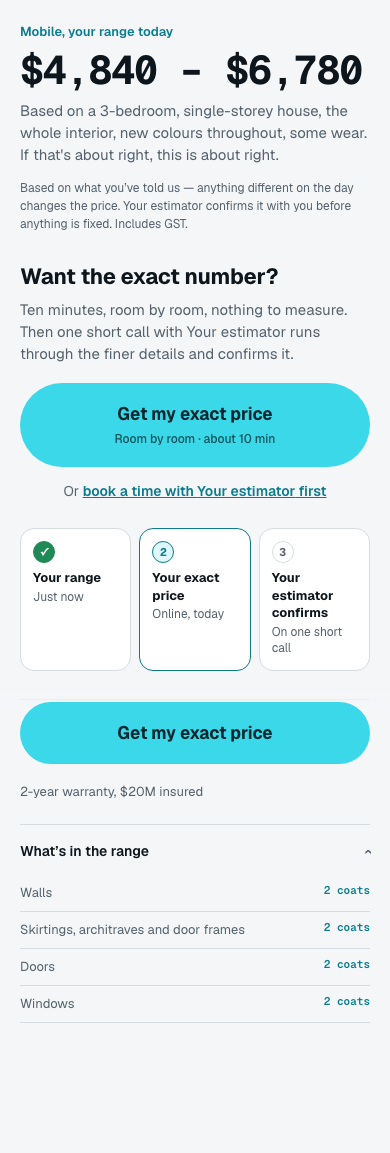
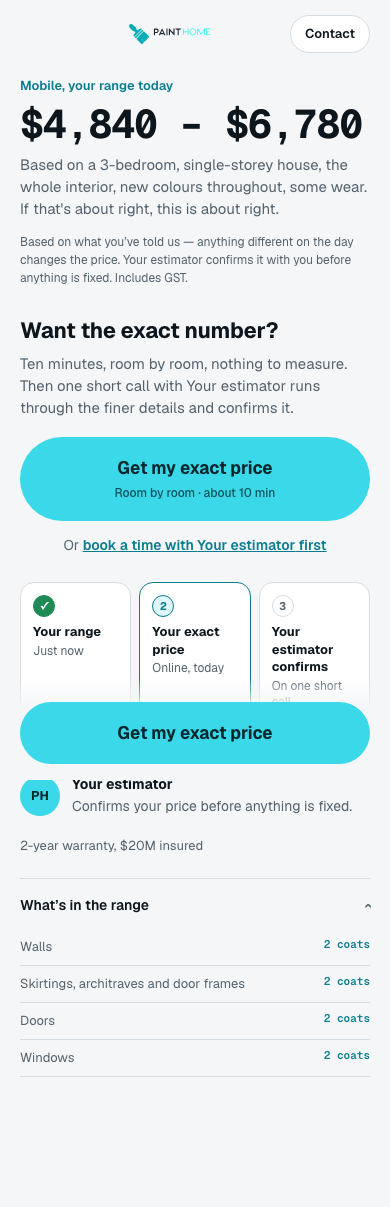
Wizard mobile v5 S5: Book a visit on both shopfronts (brief §5), the pre-range door a visit request, the gate's door the booking page; the specs' phone, cache and host assumptions

Changed region(s): [[0.0308, 0.0, 0.9538, 0.9055], [0.8308, 0.7493, 0.9538, 0.9055]]

diff --git a/e2e/customer-journey/wizard-mobile-v5-contact.spec.ts b/e2e/customer-journey/wizard-mobile-v5-contact.spec.ts
@@ -67,12 +67,14 @@ test.describe("Wizard mobile v5 — Contact and early booking (session 5)", () =
     const sheet = page.getByTestId("wzm-contact-sheet");
     await expect(sheet).toBeVisible();
     await expect(sheet.getByTestId("wzm-contact-who")).toBeVisible();
-    await expect(sheet.getByTestId("wzm-contact-book")).toContainText("Book a call"); // Paint Home: phone-close
-    await expect(sheet.getByTestId("wzm-contact-call")).toHaveAttribute("href", /^tel:/);
+    await expect(sheet.getByTestId("wzm-contact-book")).toContainText("Book a visit");
+    // Call dials the shopfront's number; the test stack may hold none for Paint Home, and then the row is absent rather than a dead link
+    const call = sheet.getByTestId("wzm-contact-call");
+    if (await call.count()) await expect(call).toHaveAttribute("href", /^tel:/);
     await expect(sheet.getByTestId("wzm-contact-message")).toContainText("Send a message");
     await expect(sheet.getByTestId("wzm-contact-save")).toContainText("Save and come back later");
     // the rows in the prototype's order
-    const order = await sheet.evaluate((el) => ["wzm-contact-who", "wzm-contact-book", "wzm-contact-call", "wzm-contact-message", "wzm-contact-save"].map((t) => el.querySelector(`[data-testid='${t}']`)?.getBoundingClientRect().top ?? -1));
+    const order = await sheet.evaluate((el) => ["wzm-contact-who", "wzm-contact-book", "wzm-contact-call", "wzm-contact-message", "wzm-contact-save"].map((t) => el.querySelector(`[data-testid='${t}']`)?.getBoundingClientRect().top ?? null).filter((t): t is number => t != null));
     for (let i = 1; i < order.length; i++) expect(order[i]).toBeGreaterThan(order[i - 1]);
     // Send a message → the talk sheet in message mode; the Contact sheet closes
     await sheet.getByTestId("wzm-contact-message").tap();
@@ -153,16 +155,16 @@ test.describe("Wizard mobile v5 — Contact and early booking (session 5)", () =
     await gate.getByTestId("wzm-contact").tap();
     const sheet = page.getByTestId("wzm-contact-sheet");
     await expect(sheet).toBeVisible();
-    await expect(sheet.getByTestId("wzm-contact-book")).toContainText("Book a call");
+    await expect(sheet.getByTestId("wzm-contact-book")).toContainText("Book a visit");
     await sheet.getByTestId("wzm-contact-x").tap();
     if (await page.getByTestId("gate-visit").count()) {
       await page.getByTestId("gate-visit").tap();
-      await expect(page.getByTestId("talk-sheet")).toBeVisible();
-      await expect(page.getByTestId("talk-sheet")).toHaveAttribute("aria-label", "Speak with us");
+      await expect(page).toHaveURL(/\/estimate\/visit\?id=/, { timeout: 20_000 });
+      expect(new URL(page.url()).host).toMatch(/^painthome\.localhost/);
     }
   });
 
-  test("4 · on Paint Group the door is Book a visit; on the gate it is the booking page with the zone's days", async ({ page, baseURL }) => {
+  test("4 · on Paint Group too the door is Book a visit; on the gate it is the booking page with the zone's days", async ({ page, baseURL }) => {
     test.setTimeout(180_000);
     await open(page, baseURL!);
     await page.getByTestId("ql-jobtype-interior").tap();

diff --git a/app/wizard/WizardApp.tsx b/app/wizard/WizardApp.tsx
@@ -1907,8 +1907,8 @@ export default function WizardApp({ roomTypes, substrates, mode = "internal", pr
           estimatorName={reveal.payload.estimator?.name ?? estimatorName}
           suburb={state.address?.suburb || state.customer?.suburb || null}
           phone={companyPhone}
-          // on the gate: the booking page's real slots on Paint Group; the call request on Paint Home (phone-close)
-          onBook={() => { void recordRangeOption(reveal.estimateId, brand === "painthome" ? "speak" : "visit"); if (brand === "painthome") { setTalk({ mode: "call" }); return; } clearResume(); router.push(`/estimate/visit?id=${reveal.estimateId}`); }}
+          // on the gate: the booking page — the zone's pre-set days, the hold, the texted code (brief §5.2; both shopfronts)
+          onBook={() => { void recordRangeOption(reveal.estimateId, "visit"); clearResume(); router.push(`/estimate/visit?id=${reveal.estimateId}`); }}
           onMessage={() => { void recordRangeOption(reveal.estimateId, "message"); setTalk({ mode: "message" }); }}
           onSave={() => setBookOpen(true)}
         />
@@ -1944,8 +1944,8 @@ export default function WizardApp({ roomTypes, substrates, mode = "internal", pr
               if (!contactKnown) { setTalk({ mode: "details", then: go }); return; }
               go();
             }}
-            // Session 5 opens the Contact sheet at the slots; until then the talk sheet (a call on Paint Home, a visit request on Paint Group).
-            onVisit={() => { void recordRangeOption(reveal.estimateId, brand === "painthome" ? "speak" : "visit"); setTalk({ mode: brand === "painthome" ? "call" : "visit" }); }}
+            // Session 5: "book a time first" is the booking page (brief §4 / §5.2 — the zone's days), both shopfronts.
+            onVisit={() => { void recordRangeOption(reveal.estimateId, "visit"); clearResume(); router.push(`/estimate/visit?id=${reveal.estimateId}`); }}
             onBook={() => { void recordRangeOption(reveal.estimateId, "visit"); clearResume(); router.push(`/estimate/visit?id=${reveal.estimateId}`); }}
           />
         ) : walking && outside.v2 && !sent ? (
@@ -2210,8 +2210,8 @@ export default function WizardApp({ roomTypes, substrates, mode = "internal", pr
           estimatorName={estimatorName}
           suburb={state.address?.suburb || state.customer?.suburb || null}
           phone={companyPhone}
-          // before the range a visit is a REQUEST, never a slot (R3): the talk sheet's visit mode (a call on Paint Home)
-          onBook={() => setTalk({ mode: brand === "painthome" ? "call" : "visit" })}
+          // before the range a visit is a REQUEST, never a slot (R3): the talk sheet's visit mode (a call request needs a range — R25)
+          onBook={() => setTalk({ mode: "visit" })}
           onMessage={() => setTalk({ mode: "message" })}
           onSave={openBook}
         />

diff --git a/app/wizard/MobileContact.tsx b/app/wizard/MobileContact.tsx
@@ -54,9 +54,10 @@ export default function MobileContact({ open, onClose, brand, estimatorName, sub
           <span className="wzm-av" aria-hidden="true">{name ? initialsOf(name) : painthome ? "PH" : "PG"}</span>
           <div><b>{name ?? "Your estimator"}</b><small>{name ? where : "One of our estimators looks after your area"}</small></div>
         </div>
+        {/* Brief §5 (27 Oct, approved): Book a visit on both shopfronts — it supersedes the Paint Home phone-close door set for this one door. */}
         <button type="button" className="wzm-cta wzm-cta--teal wzm-contact-book" onClick={go(onBook)} data-testid="wzm-contact-book">
-          {painthome ? "Book a call" : "Book a visit"}
-          <small>{painthome ? `${first ?? "Your estimator"} calls to confirm your price. One short call.` : `${first ?? "Your estimator"} comes to you. About 40 minutes, no charge.`}</small>
+          Book a visit
+          <small>{first ?? "Your estimator"} comes to you. About 40 minutes, no charge.</small>
         </button>
         {phone && (
           <a className="wzm-srow" href={`tel:${phone.replace(/\s+/g, "")}`} data-testid="wzm-contact-call">Call {phone}<small>Mon–Fri, 8–6</small></a>

diff --git a/e2e/marketing/painthome-wizard.spec.ts b/e2e/marketing/painthome-wizard.spec.ts
@@ -117,12 +117,10 @@ test.describe("Paint Home — the wizard brand branch (session 3)", () => {
     // wizard mobile v5 R10: nothing on the page names Paint Group except the powered-by line
     const without = await page.evaluate(() => { const p = document.querySelector("[data-testid='gate-powered']"); const t = document.body.innerText; return p ? t.replace(p.textContent ?? "", "") : t; });
     expect(without).not.toContain("Paint Group");
-    // "book a time first" opens the talk sheet in call mode (session 5 brings the Contact sheet)
+    // S5: "book a time first" is the booking page, on the Paint Home host
     await page.getByTestId("gate-visit").tap();
-    const sheet = page.getByTestId("talk-sheet");
-    await expect(sheet).toBeVisible();
-    await expect(sheet).toContainText("call");
-    await page.keyboard.press("Escape");
+    await expect(page).toHaveURL(/\/estimate\/visit\?id=/, { timeout: 20_000 });
+    expect(new URL(page.url()).host).toMatch(/^painthome\.localhost/);
 
     // the brand is on the session, the estimate — and the autosave caught up
     await expect.poll(async () => {

diff --git a/e2e/customer-journey/wizard-mobile-v5-gate.spec.ts b/e2e/customer-journey/wizard-mobile-v5-gate.spec.ts
@@ -43,6 +43,8 @@ test.describe("Wizard mobile v5 — the gate on a phone (session 4)", () => {
     if (policyBefore !== undefined) {
       if (policyBefore === null) await db.from("settings").delete().eq("key", "wizard_policy");
       else await db.from("settings").upsert({ key: "wizard_policy", value: policyBefore }, { onConflict: "key" });
+      // the server's pricing context caches settings for 20s: the next spec must not submit against the lowered cap
+      await new Promise((r) => setTimeout(r, 21_000));
     }
   });
 

diff --git a/docs/briefs/estimator-v2-progress.md b/docs/briefs/estimator-v2-progress.md
@@ -70,6 +70,7 @@
 | M5 · S2 | Mobile shell and screens (brief §2; plan Session 2) | BUILT | 28 Oct 2026 | branch `feat/wizard-mobile-v5-s2` (cut from `feat/wizard-mobile-v5`; PR for Tom) | none | — | 4158 → 4173 | ⚑ NEW D15: the details button — the brief enables Show my range on name + 10-digit mobile, but the server's gate (`/api/wizard/submit` `gate_required`) still demands an email, so the phone asks for all three until Tom changes that rule (a server + policy change, not S2's) | **The shell.** Under 768px (`WizardApp useMobile` — the `(max-width: 767px)` query through `useSyncExternalStore`, desktop until hydration) a customer's quick look is `app/wizard/MobileQuickLook.tsx`: back chevron · logo · **Contact** pill (opens the talk sheet — a call on Paint Home, a site visit on Paint Group — and writes `contact_opened {step: <screen>}`; the Contact sheet is S5), the 3px bar (`mobileProgress`: index / question screens × 55, the gate at 55), the live strip's PLACE (`.wzm-strip`, a static placeholder — S3 draws the thumbnail, the ribbon and the sheet in it), one question per screen, single choices advancing themselves 250ms after the tap (D10 default), a bottom bar (`.wzm-foot`, safe-area padded) only on surfaces, rooms, details and on a step the phone does not split. **The screens are data:** `lib/wizard/mobileScreens.ts mobileScreensFor(steps, quick)` lays what · property · beds · storeys · job · surfaces · rooms · colours · condition · living · details over `stepsFor()`, which stays the order of record — `page`, `quickNext` (validation, autosave tag, submit) and `quickBack` are untouched; the shell keeps which screen of the step is showing (state + `localStorage pg-wizard-mobile-screen-v1`, so a reload and Welcome back land on the same screen). Skip rules: storeys for a unit; an outside job is place → the exterior brief's screens AS THEY ARE (§2.4: home · paint · about · sides, through `QuickLook shell="mobile"` — no nav, no talk card, no Your job so far; the drawn house stays above the question, static, because it is the paint step's control until S3's strip takes over). Brief §2's Outside beds/storeys/surfaces screens are therefore NOT built — the exterior brief governs. **Answers (§2.6, data model unchanged):** `applyJobChoice` pre-ticks the surfaces (Doors, windows and trims = skirtings, doors, windows; the architraves chip offered unticked; Some rooms = the first two starter rooms), surface chips write `excluded` (+ `changing` via `changingForScope`), the three colour answers read/write the colour tiles (`colourChoiceOf` / `applyColourChoice`; bold is never asked on a phone), the rooms screen lists the STARTER names (so the submit finds them — "Landing & stairs", not the brief's "Stairwell, Upstairs hall") with Study / Ensuite / Garage as added rooms and the desktop's add-room control as "+ Another room". `wizard_step_viewed {step: <screen>, breakpoint: mobile}` per screen (WizardApp's per-step emitter stands down on a phone). **Gone on a phone:** the sticky picture panel and the floating pill (interior path); desktop renders none of this. **Specs:** `e2e/customer-journey/wizard-mobile-v5.spec.ts` (390 × 780, anonymous, painthome.localhost — §9 items 1–3, the Unit and Outside skip rules, Back, reload, the events, a range from the phone's screens); the e2e drive (`quickNext` / `driveNoPlanWizard`) walks the phone's screens when the shell is up (`onMobileShell`, `driveMobileQuickLook`); the four phone-width specs v5 supersedes were rewritten (wizard-phone-pictures now runs at 800px, the band's remaining home; exterior-v2-home's phone test; ui-refresh-steps' 390 and iPhone tests; address-handoff; painthome-wizard). `e2e/_look-wizard-desktop.spec.ts` (env `WIZARD_DESKTOP_SHOTS`) is the 1470px scope-guard screenshot tool. e2e on C1 (28 Oct): wizard-mobile-v5 4/4, exterior-v2-home 8/8, wizard-phone-pictures 1/1, address-handoff 3/3, ui-refresh-steps 44/44, r5-editor 4/5 (the range-width test is red at DESKTOP width, 17 → 17 → 17 — same list red on main's own e2e job, run 40571676667; not this change), painthome-wizard 2/3 — test 1 is red on main too: Paint Home's "Confirm my price. Book a call" is refused by `lib/visits/requests.ts` (`speakWithUsFor`, Paint Group's speak caps; the Paint Home tier is never consulted) — ⚑ a follow-up, not S2's. Desktop diff: seven 1470px screenshots (start · place · job · rooms · condition · gate · range) BYTE-IDENTICAL to `feat/wizard-mobile-v5` (c350d468), `e2e/_look-wizard-desktop.spec.ts` on both builds. Help: `docs/help/estimator/customer.md` "On a phone". **Next: S3, the live strip, thumbnail and roller** (the strip's place, `.wzm-strip` in `MobileQuickLook.tsx`, is where it goes; `surfacesTicked()` already counts for the ribbon). |
 | M5 · S3 | Live strip, thumbnail and roller (brief §3; plan Session 3) | BUILT | 28 Oct 2026 | branch `feat/wizard-mobile-v5-s3` (off main after #404; PR for Tom) | none | — | 4173 → 4179 | — | **One picture, drawn twice.** `lib/wizard/mobilePicture.ts pictureStateFor(quick, outside, surfacesReached)` → `app/wizard/pictures/MobilePicture.tsx` in the strip (`app/wizard/MobileStrip.tsx`, 76 × 52 beside the ribbon and chevron) and in the sheet (5:3, caption, the same chips). The drawings are the PROTOTYPE's 200 × 120 room and house (the prototype wins over §3.1's "the desktop SVGs"; S6 can lift the layers onto the desktop picture if D14 = build). Variants from the answers: unit (block, balconies, three window rows), townhouse (split, two doors), two storeys (second row), the three wall tints (`WALL_TINT`), the two condition marks; unpainted before the surfaces screen, ticks kept after it (§3.5). **The roller:** each surface = base + painted layer clipped by a rect; a tick sweeps the width 0 → 200 over ~520 ms (ease-out cubic) from rAF with the glyph at the surface's mid-height; untick wipes back; each copy owns its frames (§3.3, the v4 bug); React never writes the width — effects do — so a re-render mid-sweep cannot reset it; reduced motion snaps. **Ribbon** `ribbonFor` (§2.2): the answers of the screens PASSED, " · "-joined; line 2 "N surfaces ticked · tap to see" from the surfaces screen, "N parts ticked" outside, else "Updates as you answer · tap to see". **Outside** (§2.4): the house from `v2.parts` grouped onto six surfaces (`OUTSIDE_SURFACE_PARTS`: walls+gable, fascias+eaves, gutters+downpipes, windows+shutters, doors+garage, verandah+posts+ceiling+handrail); the sheet's chips toggle a group's first part through `togglePart`; the shape picks the variant (ds → two, th/terrace → townhouse, unit → block). `surface_toggled {surface, on}` from the step's chips and the sheet's (the exterior part's key outside). **Proof:** C1 e2e 28 Oct — `wizard-mobile-v5-strip.spec.ts` 5/5 (the strip's geometry and ribbon on a full Inside run; the tick sweeps in the thumbnail with no sheet, the wipe mid-way then gone, reduced motion snapping; the sheet at 5:3 with the same chips, a tick there ticking the step, both pictures and the count; the variants; Outside from the parts; `surface_toggled` in order) and `wizard-mobile-v5.spec.ts` still 4/4. Desktop diff: the seven 1470px screenshots byte-identical to the S1 set (`e2e/_look-wizard-desktop.spec.ts`). Variant screenshots: `docs/wizard-mobile/variants/`. Help: customer.md "On a phone" updated. **Next: S4, the gate** (Reveal on a phone: blocks 1–6, no picture, the tiles, the sticky bar; the strip is hidden there by nature — the gate is a different screen). |
 | M5 · S4 | The gate on a phone (brief §4; plan Session 4) | BUILT | 28 Oct 2026 | branch `feat/wizard-mobile-v5-s4` (off S3; PR for Tom) | none | — | 4179 → 4179 | D11 default taken (Get my exact price); D3 default (bigger job = the Paint Home over-the-ceiling hand-off only; nothing on Paint Group) | **`app/wizard/MobileGate.tsx`** in place of `WizardHeader` + `Reveal` under 768px: blocks 1–6 in order — label · range (Martian Mono 40px) · basis (`restatement`) · the one small-print sentence (R3, no ± anywhere) · "Want the exact number?" + Get my exact price (sub "Room by room · about 10 min"; "Side by side" outside) + "book a time with <estimator> first" (talk sheet until S5) · three tiles (R4) · estimator line (`payload.estimator`; "Looks after <suburb>" when covered) · trust line (rating · count · warranty; "Reviews powered by Paint Group" 11px on Paint Home — the ratchet's one mention) · "What's in the range" collapsed (`payload.systems` with coats; the unticked ceilings do not appear). §4.1 sticky bar = the one door. §4.2 bigger job = `paintHome.tier === "visit"`: "We'll come and look" + Book a visit, the bar follows, no exact-price door (the 27 Oct ruling). `onExact` = the desktop Tighten path (details sheet when the contact is not held, `markScopeFromGate`, `/estimate/scope`). **§4.3 found and fixed:** the scope page's chrome never knew the brand — `ScopeEditor`, `SidesEditor` and the holding page rendered `Wordmark` without it, so Paint Home customers saw the Paint Group mark after "Get my exact price"; the page now selects `estimates.brand` (host as fallback) and passes it; on a phone `WizardHeader phoneTiles` draws the three tiles (Your exact price active) in the frozen header in place of the step line. **Specs:** `wizard-mobile-v5-gate.spec.ts` (3: the blocks and order, no picture, no ± / within, small print, tiles, ticked surfaces only, the bar on the edge, the events, the scope with Paint Home chrome and tiles, the bigger-job variant with the policy cap lowered and restored); `painthome-wizard.spec.ts` tests 1–2 rewritten to the gate (the desktop call-route defect no longer reachable from a phone — it stands on desktop, see S2's row). **Proof:** C1 e2e 28 Oct — `wizard-mobile-v5-gate.spec.ts` 3/3 (run 15), `painthome-wizard.spec.ts` 3/3 and `wizard-mobile-v5.spec.ts` 4/4 (runs 11 and 13). The bigger-job spec waits out the pricing context's 20s settings cache (`lib/pricing/context.ts`) after lowering the cap — the first attempt read the old policy. Desktop diff: the seven 1470px screenshots byte-identical to the S1 set (run 13, with the gate and the SVG-mark height in). Also found: the Paint Home SVG mark drew at zero size in every `WizardHeader` (no intrinsic size, only max-* rules) — `svg.wz-logo` now has a height; and the scope page's dark strip still says ±17% on a phone, which is the scope redesign's own brief (out of scope here, §11). **Next: S5, Contact and early booking** (the pill, the sheet with Sarah line / Book a visit / Call / Message / Save, the zone's slots, the booking + lead + SMS, pre-fill of details and gate; `gate-visit` on the gate should open it at the slots; `onContactOpen` in `MobileQuickLook` is the hook). |
+| M5 · S5 | Contact and early booking (brief §5; plan Session 5) | BUILT (the sheet); ⚑ the slot booking waits on three rulings | 28 Oct 2026 | branch `feat/wizard-mobile-v5-s5` (off the S3 branch at #408, which carries S4 — S4 is NOT on main yet: `feat/wizard-mobile-v5-s3` → main needs a PR) | none | — | 4179 → 4179 | ⚑ NEW D16 — slot booking BEFORE the range: R3 (visit booking S4, 6 Oct) says a visit asked for before the range is a REQUEST, never a slot; the brief's §5.2–5.3 books the zone's slot from step 3. ⚑ NEW D17 — name + mobile alone (R6): every lead is keyed on an email (`ensureAccountAndProperty`, `/api/visits/request`, `/api/visits/details`); a mobile-keyed identity is a new path. ⚑ NEW D18 — "Sarah texts you to confirm" vs the six-digit code: the module confirms a hold with a texted code (section 8, anti-abuse) and books only against an ESTIMATE (`placeHold(est)` / `confirmHold(est)`, `loadVisitContext(est)` for the zone). D12/D13 defaults stand once D16 is ruled. | **Built:** `app/wizard/MobileContact.tsx` — the prototype's menu behind the pill on every phone screen (the gate included: `MobileGate` has a header with the pill now): estimator line · Book a visit (PG) / Book a call (PH) · Call (tel:) · Send a message · Save and come back later. Each door is an existing mechanism: before the range → `TalkSheet` visit/call mode (a request through `/api/visits/request`: `visit_requests` row + account by email + the draft as the lead); on the gate → `/estimate/visit?id=` (PG: the zone's pre-set days, the hold, the texted code — the module as it stands) or the call request (PH); message → `TalkSheet` message; save → `SaveAndBookSheet`. `TalkSheet onContact` writes the accepted details to `state.contact`, so the details step and the gate arrive pre-filled (§2.5/§5.4 — proven in the spec). `contact_opened {step}` from every screen (`gate` on the gate). Desktop: no "Help" label exists (the header carries the call button, chat and Save & book), so §5.6 has nothing to relabel. **Specs:** `wizard-mobile-v5-contact.spec.ts` (the sheet's rows and order; message → talk sheet; save → Save & book; a request from step 3 lands the account by email and the draft with the three answers, then the details step pre-filled; the gate's pill; on Paint Group the door is Book a visit and from the gate the booking page). **Proof:** E2E_RESULT. Desktop diff: DESKTOP_RESULT. **Next:** Tom rules D16–D18; with D16 = slot, S5b builds the zone-day times in the sheet (an address-based `loadVisitContext`, a draft-bound hold/confirm, `visit_booked {step, from: "contact"}`), then S6 (D14) and S7 (home hero, full E2E, independent check). |
 
 ## Rulings recorded (so they are never re-asked)
 

diff --git a/docs/ARCHITECTURE.md b/docs/ARCHITECTURE.md
@@ -5005,3 +5005,5 @@ Tom: "the messages still aren't clearer". `composeUpdate` in `lib/workorder/upda
 **Wizard mobile v5 — session 3: the live strip, the thumbnail and the roller (28 Oct 2026; brief §3).** The strip under the phone's progress bar is `app/wizard/MobileStrip.tsx`: a 76 × 52 thumbnail, the ribbon and a chevron; a tap opens a bottom sheet (`.wz-sheetback` / `.wz-sheet`, the S8 sheet pattern) with the same picture at 5:3, the caption and the same surface chips as the step. The picture is ONE state, `lib/wizard/mobilePicture.ts pictureStateFor(quick, outside, surfacesReached)` — Inside → the room, Outside → the house; unit / townhouse / two storeys / the three wall tints (`WALL_TINT`) / the two condition marks from the answers; unpainted before the surfaces screen, the ticks kept after it — drawn twice by `app/wizard/pictures/MobilePicture.tsx` (the prototype's 200 × 120 drawings, as the prototype wins over brief §3.1's "the desktop SVGs"; session 6 may lift the layers onto the desktop picture). Every surface is a base layer plus a painted layer clipped by a rect; a tick sweeps the rect 0 → 200 over ~520 ms (ease-out cubic) from `requestAnimationFrame` with the roller glyph riding the edge, each rendered copy owning its own frames; React never writes the rect's width (effects do), and `prefers-reduced-motion` snaps. The ribbon is `ribbonFor` (§2.2: the answers of the screens passed, joined with " · "; "N surfaces ticked · tap to see" from the surfaces screen on; "N parts ticked" on an outside job). Outside draws from the exterior brief's `v2.parts` grouped onto six surfaces (`OUTSIDE_SURFACE_PARTS`); the sheet's chips toggle each group's first part through `togglePart`. `surface_toggled {surface, on}` is written from the step's chips and the sheet's. Contract: `e2e/customer-journey/wizard-mobile-v5-strip.spec.ts`.
 
 **Wizard mobile v5 — session 4: the gate on a phone (28 Oct 2026; brief §4).** Under 768px a customer's range screen is `app/wizard/MobileGate.tsx` (WizardApp renders it in place of `WizardHeader` + `Reveal` on the reveal screen; the walk and the sent screen keep theirs): one column, no picture (R5) — the label, the range in Martian Mono 40px, the basis line (`restatement` / `exteriorRestatement`), the ONE small-print sentence (R3; no tolerance figure anywhere, R2), "Want the exact number?" with **Get my exact price** (D11; `onExact` is the desktop's Tighten path: range option, the details sheet when the contact is not held, `markScopeFromGate`, the scope) and "book a time with <estimator> first" (the talk sheet until session 5), the three tiles (R4: done · now · todo), the estimator line (`payload.estimator`, the suburb when covered), the trust line from the homepage's rating and warranty with "Reviews powered by Paint Group" in 11px on Paint Home (R10 — the one mention, in the brand-guard ratchet), and "What's in the range" collapsed: `payload.systems` lines with coats. §4.1 the sticky bar holds the one door. §4.2 the bigger-job variant is the Paint Home over-the-ceiling hand-off (`paintHome.tier === "visit"`): "We'll come and look" + Book a visit replace the question, the bar follows, never both. Events as Reveal's (`gate_viewed`, `gate_cta_clicked`). §4.3: `/estimate/scope` now reads the estimate's `brand` (host as fallback) into its chrome — `ScopeEditor`, `SidesEditor` and the holding page take `brand` for the Wordmark (Paint Home had been showing the Paint Group mark there) — and on a phone `WizardHeader`'s new `phoneTiles` draws the three tiles with Your exact price active in the frozen header in place of the step line. Contract: `e2e/customer-journey/wizard-mobile-v5-gate.spec.ts`; the Paint Home phone tests in `e2e/marketing/painthome-wizard.spec.ts` assert the gate.
+
+**Wizard mobile v5 — session 5: Contact (28 Oct 2026; brief §5).** `app/wizard/MobileContact.tsx` is the sheet behind the phone's **Contact** pill (R6: every screen, the gate too — `MobileGate` gained a header with the pill): the estimator line, one teal door (Book a visit on Paint Group; Book a call on Paint Home, phone-close), Call (tel:), Send a message, Save and come back later. It decides and books nothing itself: each door hands over to a mechanism the platform already has — before the range the door is the visit module's own pre-range path, a REQUEST for a time through `TalkSheet` (the standing R3 ruling: never a slot before the range); on the gate it is `/estimate/visit` (the zone's pre-set days, the hold, the texted code) on Paint Group and the call request on Paint Home; Send a message is the talk sheet's message mode; Save is `SaveAndBookSheet` (the link back by email). `TalkSheet` gained `onContact`, called whenever details are accepted, so the details step and the gate arrive pre-filled from a request (§2.5 / §5.4). `contact_opened {step}` names the screen (`gate` on the gate). **Not built, by rule:** the brief's slot booking from step 3 on name + mobile alone, confirmed by a text rather than the six-digit code, cuts across the one identity model (every lead is keyed on an email, `ensureAccountAndProperty`), the visit module's estimate-bound holds and code (section 8), and R3 — three rulings for Tom, listed in the ledger (M5 · S5), not worked around.

diff --git a/docs/help/estimator/customer.md b/docs/help/estimator/customer.md
@@ -3,7 +3,7 @@ feature: estimator
 role: customer
 title: Get a painting price online, in about two minutes
 summary: A few quick screens give you a guide range; then you can tighten it room by room or side by side, and send it to your estimator to fix the price — or book a visit at any point.
-sources: app/estimate/page.tsx, app/wizard/WizardApp.tsx, app/wizard/QuickLook.tsx, app/wizard/MobileQuickLook.tsx, app/wizard/MobileStrip.tsx, app/wizard/pictures/MobilePicture.tsx, app/wizard/MobileGate.tsx, app/wizard/PictureCard.tsx, app/wizard/Reveal.tsx, app/estimate/scope/ScopeEditor.tsx, app/estimate/scope/SidesEditor.tsx, app/estimate/finish/Finish.tsx, app/estimate/sent/Sent.tsx
+sources: app/estimate/page.tsx, app/wizard/WizardApp.tsx, app/wizard/QuickLook.tsx, app/wizard/MobileQuickLook.tsx, app/wizard/MobileStrip.tsx, app/wizard/pictures/MobilePicture.tsx, app/wizard/MobileGate.tsx, app/wizard/MobileContact.tsx, app/wizard/PictureCard.tsx, app/wizard/Reveal.tsx, app/estimate/scope/ScopeEditor.tsx, app/estimate/scope/SidesEditor.tsx, app/estimate/finish/Finish.tsx, app/estimate/sent/Sent.tsx
 verified_at_commit: bb273c9122
 ---
 
@@ -50,7 +50,7 @@ On a phone (any screen narrower than about 770px) the same questions come one at
 
 - **Outside** on a phone asks the place, then the outside questions as they are (what kind of home, what we are painting, about it, each side) with a **Continue** bar under each — the drawn house sits above the question, and the strip's small house paints in the parts you tick (walls, eaves and fascia, gutters and downpipes, window frames, doors, verandah); the strip's chips tick those parts too.
 - **Back** keeps every answer, and so does closing the page: come back on the same phone and **Welcome back** lands you on the screen you left, with your answers in place. **Start again** clears them.
-- **Contact** opens the same options as the laptop's talk-it-through bar: request a call (or a site visit on the Paint Group site), ring us, or send a message.
+- **Contact** (top right on every phone screen, the range screen included) opens a sheet: your estimator's name, then **Book a call** on Paint Home (**Book a visit** on the Paint Group site), **Call** (it dials), **Send a message**, and **Save and come back later** (we email you the link). Before your range, Book a visit asks for your name, mobile and email and we arrange the time with you; from the range screen on the Paint Group site it opens the booking page with the days your estimator is in your area. Details you give here come back filled in on the "Where shall we send your range?" screen.
 
 ## The estimate page, once it is sent
 - **Photos and videos.** "Your property, as we saw it" shows the first nine photos — and any video you sent us, which plays right there on the page — from your enquiry and our site notes. When there are more, a **More photos (N)** button sits underneath; press it and the rest open below (the button then reads **Fewer photos**).
@@ -81,6 +81,7 @@ On a phone (any screen narrower than about 770px) the same questions come one at
 - **On a phone the quick look is one question per screen** — see *On a phone* above. The picture panel pinned under the step bar and the floating talk-it-through pill are gone on phones; the laptop layout is unchanged.
 - **The strip under the bar shows your place** — a small picture that paints each surface in as you tick it, with your answers so far beside it; tap it for the full-width picture and the same chips.
 - **The range screen on a phone is one column** — the range, the one question, three tiles, your estimator, the trust line and what's in the range; no picture, no tolerance figure. The room-by-room editor on Paint Home now carries the Paint Home mark.
+- **Contact on a phone is a sheet** — your estimator, Book a call or a visit, Call, Send a message, Save and come back later — on every screen including the range.
 
 ## Changes on 27 Oct 2026
 - **On Paint Home, a job over the phone-close ceiling** shows the "bigger than we can price from your phone" screen with Book a site visit and Send us a message only; the editor is not offered there.
